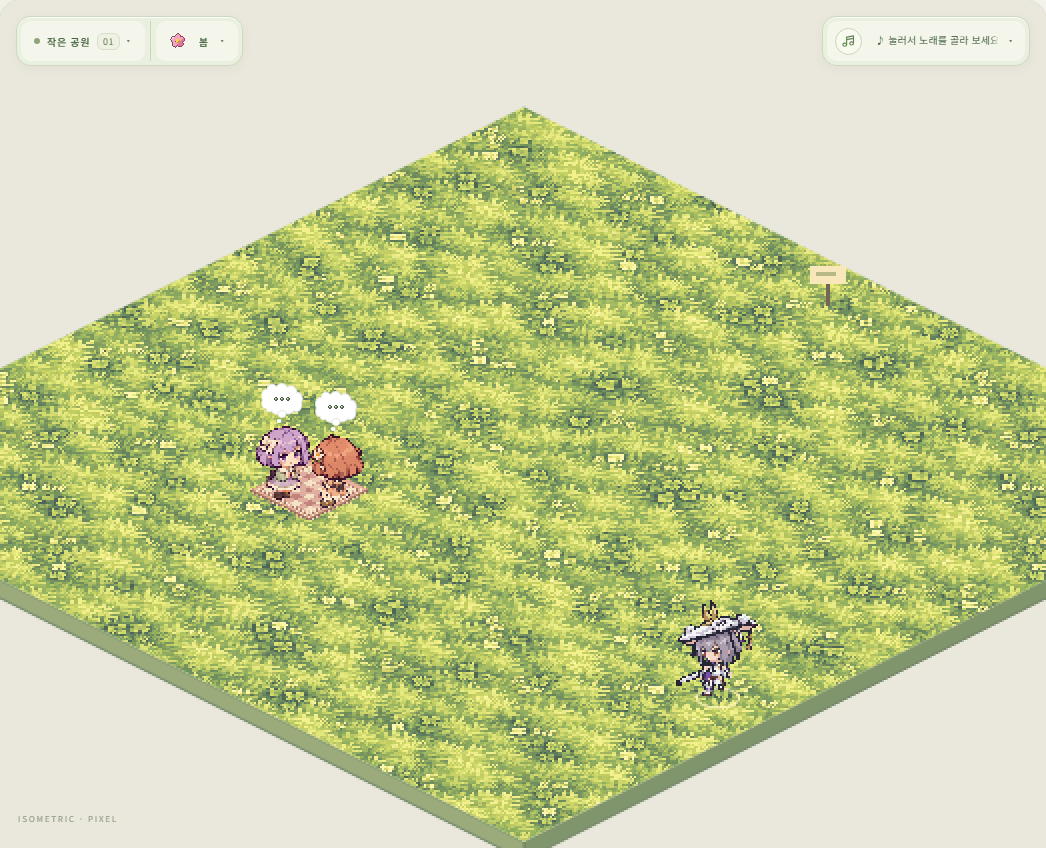
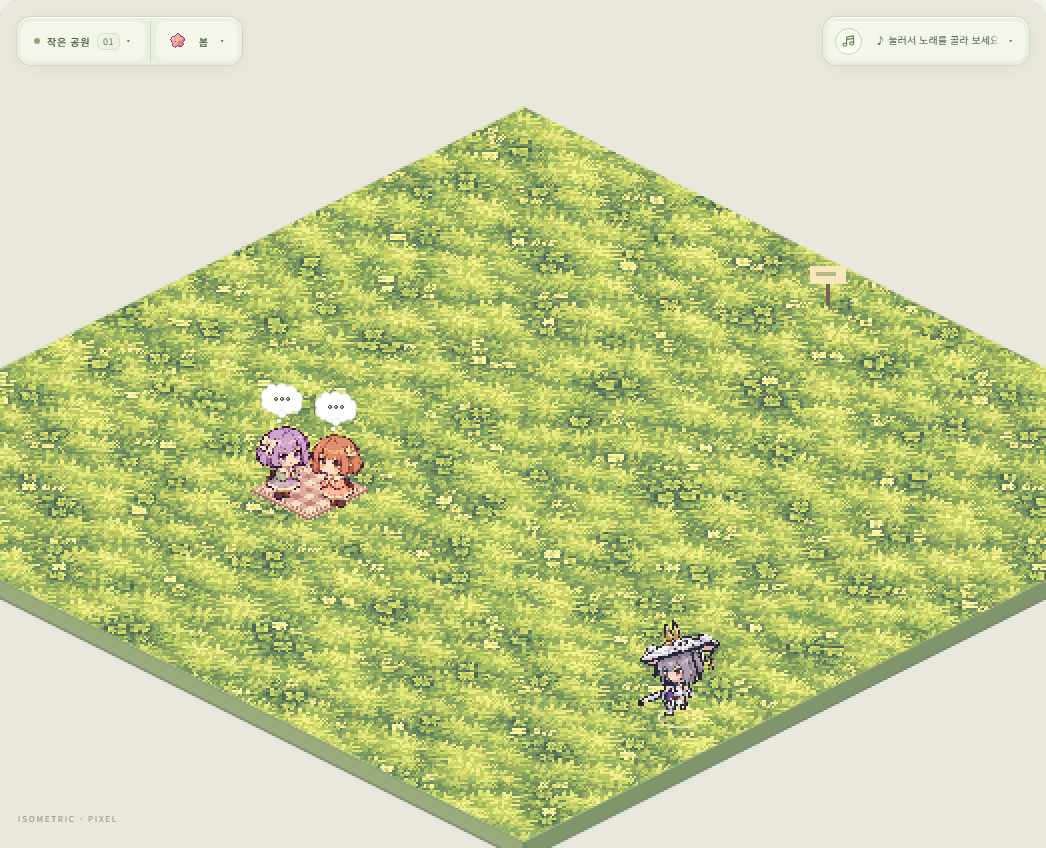
Picnic rug: both friends sit facing the viewer
The left seat turns down-right (SE) and the right one down-left (SW), so
only front sitting poses are used on the rug and the two still lean toward
each other.

Changed region(s): [[0.6119, 0.7052, 0.7342, 0.8585], [0.2753, 0.4906, 0.3671, 0.6132]]

diff --git a/apps/client/src/layout.ts b/apps/client/src/layout.ts
@@ -145,10 +145,11 @@ export function worldFrom(items: PlacedItem[]): NavigationWorld {
     rectangles.push(...pieces);
   }
   // A fixed floor feature, not a placed item: existing saved layouts need no migration.
-  // Two offset positions leave room for the large heads; each faces toward the other.
+  // Two offset positions leave room for the large heads. Both sit facing the viewer (front poses only, as the player
+  // asked): the left one turns down-right (SE), the right one down-left (SW), so they still lean toward each other.
   for (const side of [-1, 1] as const) seats.push({ id: `${PICNIC_RUG_ID}-${side}`, equipment: PICNIC_RUG_ID, kind: 'picnicRug', side,
     x: PICNIC.x + side * .6, z: PICNIC.z - side * .3,
-    approach: { x: PICNIC.x + side * .5, z: PICNIC.z - side * 1.5 }, height: 0, yaw: -side * Math.PI / 2 });
+    approach: { x: PICNIC.x + side * .5, z: PICNIC.z - side * 1.5 }, height: 0, yaw: side < 0 ? Math.PI / 2 : 0 });
   // Friends walk tile centre to tile centre, so each seat's approach (where they step on and off) is the nearest
   // free tile centre to the art's approach point.
   const used: Point[] = [];

diff --git a/tests/life/picnic-rug.test.ts b/tests/life/picnic-rug.test.ts
@@ -47,3 +47,8 @@ test('two rug reservations are exclusive; leaving and layout resets release them
   sim.applyLayout([]); assert.equal(sim.reservations.size, 0);
   assert.ok([...sim.avatars.values()].every(a => a.seatId === null && walkable(a, sim.world)));
 });
+test('both rug seats face the viewer: only front sitting poses (SE and SW)', async () => {
+  const { scarletDirection } = await import('../../apps/client/src/scarletDirections');
+  const seats = worldFrom([]).seats.filter(s => s.kind === 'picnicRug').sort((a, b) => (a.x - a.z) - (b.x - b.z));
+  assert.deepEqual(seats.map(s => scarletDirection(s.yaw)), ['se', 'sw'], 'left seat turns down-right, right seat down-left');
+});

diff --git a/AGENTS.md b/AGENTS.md
@@ -223,3 +223,4 @@
 - **화면 테스트의 확인 그림 (2026-10-19)**: 화면 테스트가 실행할 때마다 `docs/`의 커밋된 확인 그림을 덮어써서 테스트만 돌려도 바뀐 파일이 생겼다. 이제 확인 그림은 `tests/e2e/proof.ts`의 `proofPath(docs 폴더, 파일)`로 저장하며 평소에는 `test-results/`(커밋 안 됨)에 남는다. `docs/`의 그림을 일부러 새로 만들 때만 `UPDATE_PROOF=1`을 붙여 실행한다(예: `UPDATE_PROOF=1 npx playwright test tests/e2e/pond-art.spec.ts`). 새 화면 테스트도 `docs/`에 직접 쓰지 말고 `proofPath`를 쓴다.
 - **분수대 도트 아이콘 (2026-10-19, 사용자 검수 전)**: 사용자가 “분수대 아이콘 추가해”라고 했다. `make-emote-icons.py`에 같은 16×16 방식으로 `emotes/fountain.png`(넓은 돌 수반과 물, 기둥, 작은 윗그릇, 위로 솟는 물줄기, 외곽선 없는 물방울 4개)를 더했고 말풍선 감정 `⛲`에 연결했다(승인된 아이콘들은 바이트 그대로). 아직 친구가 스스로 띄우는 곳은 없다(분수 구경 행동이나 해금 감정에서 쓸 수 있다). 어디에 쓸지는 사용자가 정한다.
 - **분수대 구경 (2026-10-19)**: 사용자가 “분수대를 구경할때 해당 아이콘이 나오면 돼”라고 했다. 호수 구경과 같은 방식으로 `watchFountain`을 더했다: 분수대(그림 또는 칸)를 누르거나 `구경 부탁하기`, 또는 자유 시간에 20%(`FOUNTAIN.visit`, 분수대가 있을 때만 굴림)로 분수대 바로 옆 빈칸에 서서 6~11초 구경한다. 구경 중 말풍선은 ⛲(5초마다 2.5초), 상태는 `분수 구경하는 중`. 아바타의 `watchKind`('pond'|'fountain')로 호수와 구분하며, 호수의 `watch` 순간·대사는 분수대에서 나오지 않는다. 확인 그림 `docs/design/fountain-watch-2026-10-19/`.
+- **피크닉 돗자리는 정면으로만 앉기 (2026-10-19)**: 사용자가 “피크닉 돗자리에 앉는건 정면으로만 앉게 해줘”라고 했다. 돗자리 두 자리 모두 화면 앞쪽을 보게 바꿨다: 왼쪽 자리는 오른쪽 아래(SE, yaw π/2), 오른쪽 자리는 왼쪽 아래(SW, yaw 0)를 봐서 서로 살짝 마주 본다. 돗자리에서는 뒷모습 앉기를 쓰지 않는다(시소·테이블의 먼 자리는 그대로). 위치·접근 칸·높이는 그대로다.
